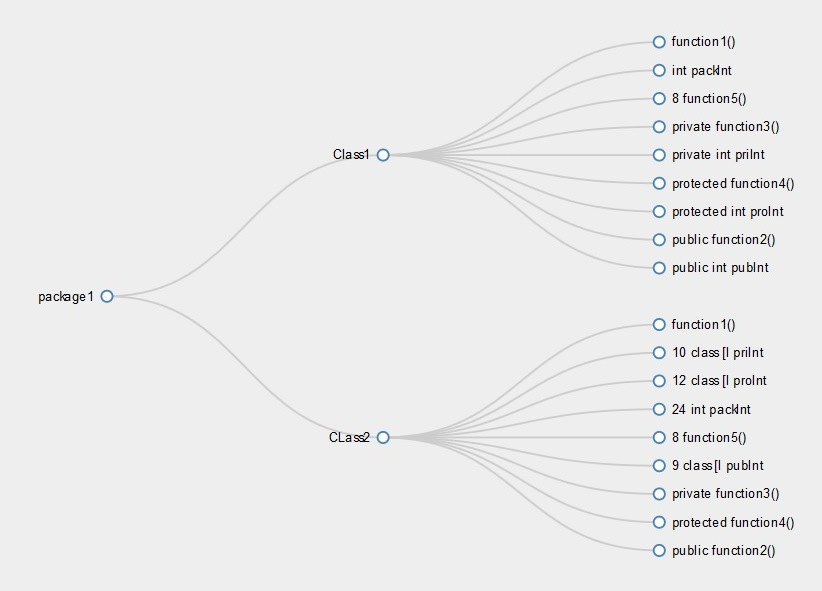
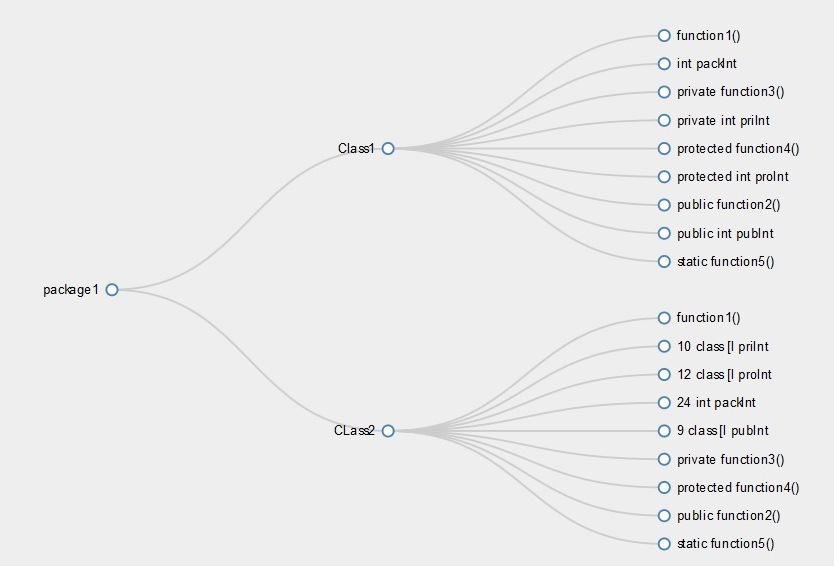
static added

diff --git a/jp2tg/src/MainClass.java b/jp2tg/src/MainClass.java
@@ -12,7 +12,7 @@ public class MainClass
 
 	static String getStrModifier(int modifierNum)
 	{
-		String[] modifierStr = {"","public","private","unknown","protected"};
+		String[] modifierStr = {"","public","private","unknown","protected","","","","static"};
 		
 		String modifier = "";
     	if( modifierNum > modifierStr.length-1 )
